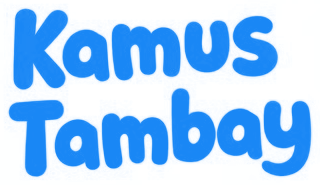
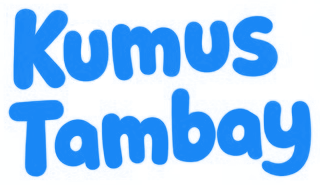
feat(branding): rename display name to Kumus Tambay and update brand artwork

Changed region(s): [[0.1875, 0.1351, 0.3438, 0.4595]]

diff --git a/lib/app/app_copy.dart b/lib/app/app_copy.dart
@@ -104,7 +104,7 @@ class AppCopy {
     'privacy_pending': [
       'Demo Privacy Notice (Draft for Class Presentation)\n\n'
           '1. Data Minimization & Accounts:\n'
-          'Kamus Tambay does not require user registration, student profiles, emails, passwords, or personal account creation. You can browse listings freely.\n\n'
+          'Kumus Tambay does not require user registration, student profiles, emails, passwords, or personal account creation. You can browse listings freely.\n\n'
           '2. Location Privacy:\n'
           'The application does not track, store, or share your precise real-time GPS location. Map features rely on fixed campus anchors (PLV Annex & CPAG), and directions launch externally in Google Maps.\n\n'
           '3. Anonymous Mood Check-ins:\n'
@@ -114,7 +114,7 @@ class AppCopy {
           '*Note: This draft copy is for class presentation and review purposes only, pending formal legal review by a qualified professional.*',
       'Demo Privacy Notice (Draft para sa Class Presentation)\n\n'
           '1. Pagpapaliit ng Data at Account:\n'
-          'Hindi nangangailangan ang Kamus Tambay ng rehistrasyon, student profile, email, password, o personal account. Malaya mong mababrowse ang mga lugar.\n\n'
+          'Hindi nangangailangan ang Kumus Tambay ng rehistrasyon, student profile, email, password, o personal account. Malaya mong mababrowse ang mga lugar.\n\n'
           '2. Privacy sa Lokasyon:\n'
           'Hindi sinusubaybayan o itinuturo ng app ang iyong eksaktong real-time GPS location. Ang mga mapa ay gumagamit ng mga nakatakdang anchor sa campus (PLV Annex & CPAG), at ang direksyon ay binubuksan sa Google Maps.\n\n'
           '3. Anonymous Mood Check-in:\n'
@@ -126,7 +126,7 @@ class AppCopy {
     'terms_pending': [
       'Demo Terms & Conditions (Draft for Class Presentation)\n\n'
           '1. Purpose & Scope:\n'
-          'Kamus Tambay is an informational directory helping students discover study, coffee, food, and relaxation spots near PLV Annex and CPAG in Malinta, Valenzuela City.\n\n'
+          'Kumus Tambay is an informational directory helping students discover study, coffee, food, and relaxation spots near PLV Annex and CPAG in Malinta, Valenzuela City.\n\n'
           '2. No In-App Payments or Transactions:\n'
           'All listings are informational. The application does not process monetary transactions, reservations, or payments.\n\n'
           '3. Listing Accuracy & Consumer Information:\n'
@@ -136,7 +136,7 @@ class AppCopy {
           '*Note: This draft copy is for class presentation and review purposes only, pending formal legal review by a qualified professional.*',
       'Demo Terms at Kundisyon (Draft para sa Class Presentation)\n\n'
           '1. Layunin at Saklaw:\n'
-          'Ang Kamus Tambay ay isang impormatibong direktoryo upang tulungan ang mga estudyante na makahanap ng lugar para sa pag-aaral, kape, pagkain, at pahingahan malapit sa PLV Annex at CPAG sa Malinta, Valenzuela City.\n\n'
+          'Ang Kumus Tambay ay isang impormatibong direktoryo upang tulungan ang mga estudyante na makahanap ng lugar para sa pag-aaral, kape, pagkain, at pahingahan malapit sa PLV Annex at CPAG sa Malinta, Valenzuela City.\n\n'
           '2. Walang Bayad o Transaksyon sa App:\n'
           'Ang lahat ng listing ay para sa impormasyon lamang. Walang anumang bayad, booking, o transaksyon sa loob ng app.\n\n'
           '3. Katumpakan ng Listing at Impormasyon sa Mamimili:\n'
@@ -178,8 +178,8 @@ class AppCopy {
       'Mga notice ng package at bundled font license',
     ],
     'app_version': [
-      'Kamus Tambay · Version 1.0.0',
-      'Kamus Tambay · Bersyon 1.0.0',
+      'Kumus Tambay · Version 1.0.0',
+      'Kumus Tambay · Bersyon 1.0.0',
     ],
     'language': ['Language', 'Wika'],
     'language_english': ['English', 'English'],

diff --git a/web/index.html b/web/index.html
@@ -10,7 +10,7 @@
   <meta charset="UTF-8">
   <meta content="IE=Edge" http-equiv="X-UA-Compatible">
   <meta name="viewport" content="width=device-width, initial-scale=1.0">
-  <meta name="description" content="Preview build of Kamus Tambay, a student place finder for Malinta, Valenzuela City.">
+  <meta name="description" content="Preview build of Kumus Tambay, a student place finder for Malinta, Valenzuela City.">
   <meta name="theme-color" content="#1F6FD1">
 
   <!-- The preview is unlisted, not secret: listing data and coordinates are
@@ -20,13 +20,13 @@
   <!-- iOS meta tags & icons -->
   <meta name="mobile-web-app-capable" content="yes">
   <meta name="apple-mobile-web-app-status-bar-style" content="default">
-  <meta name="apple-mobile-web-app-title" content="Kamus Tambay">
+  <meta name="apple-mobile-web-app-title" content="Kumus Tambay">
   <link rel="apple-touch-icon" href="icons/Icon-192.png">
 
   <!-- Favicon -->
   <link rel="icon" type="image/png" href="favicon.png"/>
 
-  <title>Kamus Tambay</title>
+  <title>Kumus Tambay</title>
   <link rel="manifest" href="manifest.json">
 
   <style>

diff --git a/lib/features/home/brand_header.dart b/lib/features/home/brand_header.dart
@@ -4,7 +4,7 @@ import '../../app/app_copy.dart';
 import '../../app/app_layout.dart';
 import '../../app/app_theme.dart';
 
-/// Home-only header: the Kamus Tambay wordmark, emblem in a gold ring, and
+/// Home-only header: the Kumus Tambay wordmark, emblem in a gold ring, and
 /// menu shortcut.
 class BrandHeader extends StatelessWidget {
   const BrandHeader({required this.copy, required this.onMenu, super.key});
@@ -39,7 +39,7 @@ class BrandHeader extends StatelessWidget {
                     'assets/brand/wordmark.png',
                     height: wordmarkHeight,
                     fit: BoxFit.contain,
-                    semanticLabel: 'Kamus Tambay',
+                    semanticLabel: 'Kumus Tambay',
                   ),
                 ),
               ),

diff --git a/lib/features/home/app_drawer.dart b/lib/features/home/app_drawer.dart
@@ -55,7 +55,7 @@ class AppDrawer extends StatelessWidget {
                       height: 58,
                       fit: BoxFit.contain,
                       alignment: Alignment.centerLeft,
-                      semanticLabel: 'Kamus Tambay',
+                      semanticLabel: 'Kumus Tambay',
                     ),
                   ),
                   const SizedBox(width: 8),

diff --git a/test/widget_test.dart b/test/widget_test.dart
@@ -646,7 +646,7 @@ void main() {
 
       await tester.tap(find.byKey(const Key('open-menu')));
       await tester.pumpAndSettle();
-      expect(find.text('Kamus Tambay · Version 1.0.0'), findsOneWidget);
+      expect(find.text('Kumus Tambay · Version 1.0.0'), findsOneWidget);
 
       await tester.tap(find.byKey(const Key('drawer-vision')));
       await tester.pumpAndSettle();

diff --git a/lib/features/info/credits_screen.dart b/lib/features/info/credits_screen.dart
@@ -106,7 +106,7 @@ class CreditsScreen extends StatelessWidget {
   void _showLicenses(BuildContext context) {
     showLicensePage(
       context: context,
-      applicationName: 'Kamus Tambay',
+      applicationName: 'Kumus Tambay',
       applicationVersion: '1.0.0',
       applicationIcon: const Padding(
         padding: EdgeInsets.all(8),

diff --git a/lib/app/tambayan_app.dart b/lib/app/tambayan_app.dart
@@ -42,7 +42,7 @@ class TambayanApp extends StatelessWidget {
   @override
   Widget build(BuildContext context) {
     return MaterialApp(
-      title: 'Kamus Tambay',
+      title: 'Kumus Tambay',
       debugShowCheckedModeBanner: false,
       theme: buildAppTheme(),
       home: _TambayanHome(

diff --git a/docs/PROJECT_BRIEF.md b/docs/PROJECT_BRIEF.md
@@ -45,7 +45,7 @@ Confirmed November 5, 2026 as the current class-demo direction, based on the cli
 - **Palette:** cream `#FBF8F4`, sky `#DFEDFB`, navy ink `#1F2A5C`, deep navy `#0B1F4B`, primary/interactive blue `#1F6FD1`, hero blue `#3490F5`, light bubble blue `#BBDDFF`, pale surface `#E9F2F9`, undersides `#8EC4FA` and `#C3D8E8`, and a gold accent `#E2A92B`. White text on `#1F6FD1` is used for normal-size primary controls; `#3490F5` is limited to large bold text or deep-navy text. Green and red are reserved for status.
 - **Typography:** Fredoka for the brand and headings, Nunito for body and interface text. Both are bundled with their OFL licences.
 - **Shapes and spacing:** flat speech-bubble and card shapes with a hard darker underside, 24–30 px corner radii, 24 px side margins (16 px below 360 px widths), an 8 px spacing grid, and touch targets of at least 48 dp. Shared breakpoints and sizing live in `lib/app/app_layout.dart`, so list pages cap content at 600 px on wide screens and large-text rows stack instead of overflowing. The home wordmark receives the largest header share; its emblem sits close to it, with a wider gap before the 48 dp hamburger utility. The curved sky scene, bubbles, and student figure sit slightly lower to give the header breathing room. Cards put their status pills at the top. Material icons are used only for interface utilities, not as decorative placeholders.
-- **Branding status:** confirmed November 5, 2026: the displayed app name and supplied wordmark are "Kamus Tambay". The internal package/application ID and GitHub repository name remain unchanged. Final logo treatment is still open. Vision and mission copy will be supplied by the client and must not be invented.
+- **Branding status:** confirmed November 5, 2026: the displayed app name and supplied wordmark are "Kumus Tambay". The internal package/application ID and GitHub repository name remain unchanged. Final logo treatment is still open. Vision and mission copy will be supplied by the client and must not be invented.
 
 ### Places and listings
 
@@ -154,7 +154,7 @@ The approved GitHub Pages web preview is not this kind of page. It serves a buil
 | Feature priority | Confirmed ranking: listings/details, map, mood, estimated travel time, bilingual text, introductory guide; in-app ETA removed from the lower-priced delivery scope |
 | Navigation | Confirmed November 8, 2026: home hub with three speech bubbles; More, the home hamburger, and top-right spoke-screen menu buttons open one sidebar; no bottom navigation bar; system Back returns to the hub |
 | Visual direction | Confirmed November 5, 2026 as the provisional class-demo direction: cream/sky/navy/blue palette, Fredoka headings with Nunito body text, flat speech-bubble shapes with hard undersides, 24 px margins (16 px on compact widths), 8 px grid, and 48 dp targets |
-| Product name and wordmark | Confirmed November 5, 2026: displayed app name and supplied wordmark are "Kamus Tambay". Keep the internal package/application ID and GitHub repository name unchanged; final logo treatment remains open |
+| Product name and wordmark | Confirmed November 5, 2026: displayed app name and supplied wordmark are "Kumus Tambay". Keep the internal package/application ID and GitHub repository name unchanged; final logo treatment remains open |
 | Sidebar content | Confirmed November 8, 2026: Home, Instructions, Vision & Mission, Privacy, Terms & Conditions, language switching, and a version note |
 | Campus distance sorting | Confirmed November 10, 2026: selecting "Starting near PLV Annex" or "CPAG" sorts Explore place listings by straight-line Haversine distance to the active campus anchor |
 | Pull-to-refresh | Confirmed November 9, 2026: swiping down on the Explore place list triggers a live re-fetch from Supabase and updates the local on-device cache |

diff --git a/docs/MVP_PLAN.md b/docs/MVP_PLAN.md
@@ -57,7 +57,7 @@ Retain the calm, welcoming student-oriented visual style as a design hypothesis 
 - Structured per-day hours: the weekly list, the open/closed badge on cards and in details, and the "Open now" filter all read `hoursByDay`; free-text `hours` is a note only.
 - English/Filipino interface toggle in the sidebar, launch guide reopenable from Sidebar → Instructions, and a MapLibre/OpenFreeMap map with campus anchors, place pins, and a card carousel.
 - Home hub with three speech-bubble destinations and no bottom navigation; spoke screens use the shared top-right menu to open a sidebar holding Home, Instructions, Vision & Mission, Privacy, Terms & Conditions, language switching, and a version note. System Back returns to the hub. Vision/Mission, Privacy, and Terms are labelled placeholders pending reviewed client copy; the mood bubble opens an informational preview that stores nothing.
-- Speech-bubble palette, Fredoka/Nunito typography, and flat card shapes applied across the app. The displayed app name and supplied wordmark are confirmed as Kamus Tambay; final logo treatment remains open.
+- Speech-bubble palette, Fredoka/Nunito typography, and flat card shapes applied across the app. The displayed app name and supplied wordmark are confirmed as Kumus Tambay; final logo treatment remains open.
 - Shared Supabase listings with realtime updates, the latest non-empty snapshot cached for offline browsing, bundled JSON as the first-sync seed/fallback, and clear demo labelling for `sample-` rows.
 - GitHub Pages web preview rebuilt on every push to `master`.
 - Shared responsive layout utility for width bands, page margins, readable content width, sidebar sizing, sheet height, and large-text stacking; tested across 320–600 px widths at 1.0–2.0 text scale.

diff --git a/docs/AGENT_HANDOFF.md b/docs/AGENT_HANDOFF.md
@@ -4,6 +4,22 @@ Shared, version-controlled handoff notes for agents working in this repository. 
 
 ## Latest
 
+### 2026-11-11 — Committed the Kumus Tambay rename and updated brand artwork
+
+- Committed the pending display-name rename from `Kamus Tambay` to `Kumus Tambay` across app labels, the Android manifest, web metadata, in-app copy and credits, widget tests, and documentation.
+- Replaced the bundled `assets/brand/wordmark.png` with the corrected supplied artwork.
+- Added the supplied `assets/brand/kumus-tambay-logo.png` for version control; it is not declared in `pubspec.yaml` or referenced in code, so it is not bundled into builds.
+- Fixed the missed `docs/MVP_PLAN.md` reference that still read "Kamus Tambay".
+- Validation: `flutter analyze` clean (**0 issues**), all 110 Flutter tests passed, `git diff --check` clean.
+- Remaining: final logo treatment (launcher icon still the temporary blue-and-gold mark), client dataset, and legal copy sign-offs.
+
+### 2026-11-10 — Renamed application name to Kumus Tambay
+
+- Updated all application display labels, Android `AndroidManifest.xml` label, Web `index.html`/`manifest.json`, in-app credits, and documentation from `Kamus Tambay` to `Kumus Tambay`.
+- Preserved internal package/application ID, git repository name (`commission`), and underlying data models.
+- Validation: `flutter analyze` clean (**0 issues**), all 110 Flutter tests passed, `git diff --check` clean.
+- Remaining: await client final dataset and legal copy sign-offs.
+
 ### 2026-11-10 — Fixed offstage native map texture flickering on keyboard focus
 
 - Updated [`tambayan_app.dart`](file:///C:/Users/roger/Downloads/GitHub/commission/lib/app/tambayan_app.dart) to unmount `PlacesMapScreen` when `_section != AppSection.map`.

diff --git a/README.md b/README.md
@@ -1,4 +1,4 @@
-# Kamus Tambay
+# Kumus Tambay
 
 A proposed Android application to help students find suitable places to study, eat, relax, and socialize in Malinta, Valenzuela City, particularly near PLV Annex and CPAG.
 
@@ -34,7 +34,7 @@ The handoff is a lightweight, version-controlled coordination log, not a live sy
 | Visual direction (provisional) | Cream/sky/navy/blue speech-bubble palette, Fredoka headings with Nunito body text, flat shapes with hard undersides, 24 px margins (16 px on compact widths), 8 px grid, and 48 dp targets. Branding remains provisional |
 | Initial coverage | Malinta, particularly near PLV Annex and CPAG |
 | Platform | Android |
-| Product name and wordmark | Confirmed November 5, 2026: the displayed app name and supplied home wordmark are "Kamus Tambay". The internal package/application ID and GitHub repository name remain unchanged; final logo treatment is open |
+| Product name and wordmark | Confirmed November 5, 2026: the displayed app name and supplied home wordmark are "Kumus Tambay". The internal package/application ID and GitHub repository name remain unchanged; final logo treatment is open |
 | App languages | Filipino (Tagalog) and English |
 | Requested delivery | Installable Android APK for class presentation/testing; no Google Play release |
 | Web preview | Browser build published to GitHub Pages so the client can review changes without reinstalling the APK. Review channel only; the APK remains the deliverable |

diff --git a/docs/CLIENT_APP_GUIDE.md b/docs/CLIENT_APP_GUIDE.md
@@ -1,6 +1,6 @@
-# Kamus Tambay — Client User Guide & Feature Walkthrough
+# Kumus Tambay — Client User Guide & Feature Walkthrough
 
-Welcome to **Kamus Tambay** (Campus Tambayan Finder)! This guide provides a non-technical overview of all the app's features, how students use it to discover study and tambayan spots near **PLV Annex** and **CPAG**, and instructions on capturing screenshots for your client presentation.
+Welcome to **Kumus Tambay** (Campus Tambayan Finder)! This guide provides a non-technical overview of all the app's features, how students use it to discover study and tambayan spots near **PLV Annex** and **CPAG**, and instructions on capturing screenshots for your client presentation.
 
 ---
 
@@ -12,7 +12,7 @@ The **Home Screen** is the central hub of the application. It uses a clean, frie
 * 😊 **Mood check-in:** Opens the voluntary, 4-step anonymous mood feedback wizard.
 * ≡ **More (Top-Right Menu Button):** Opens the side menu drawer from any screen.
 
-The home screen displays the Kamus Tambay wordmark, mascot artwork, and cream/sky campus theme.
+The home screen displays the Kumus Tambay wordmark, mascot artwork, and cream/sky campus theme.
 
 > 📷 **Screenshot Opportunity #1: Home Screen Hub**
 > * **What to capture:** Open the app to the main Home screen showing the wordmark, student mascot, and 3 speech bubbles (**Find a tambayan**, **Mood check-in**, **More**).
